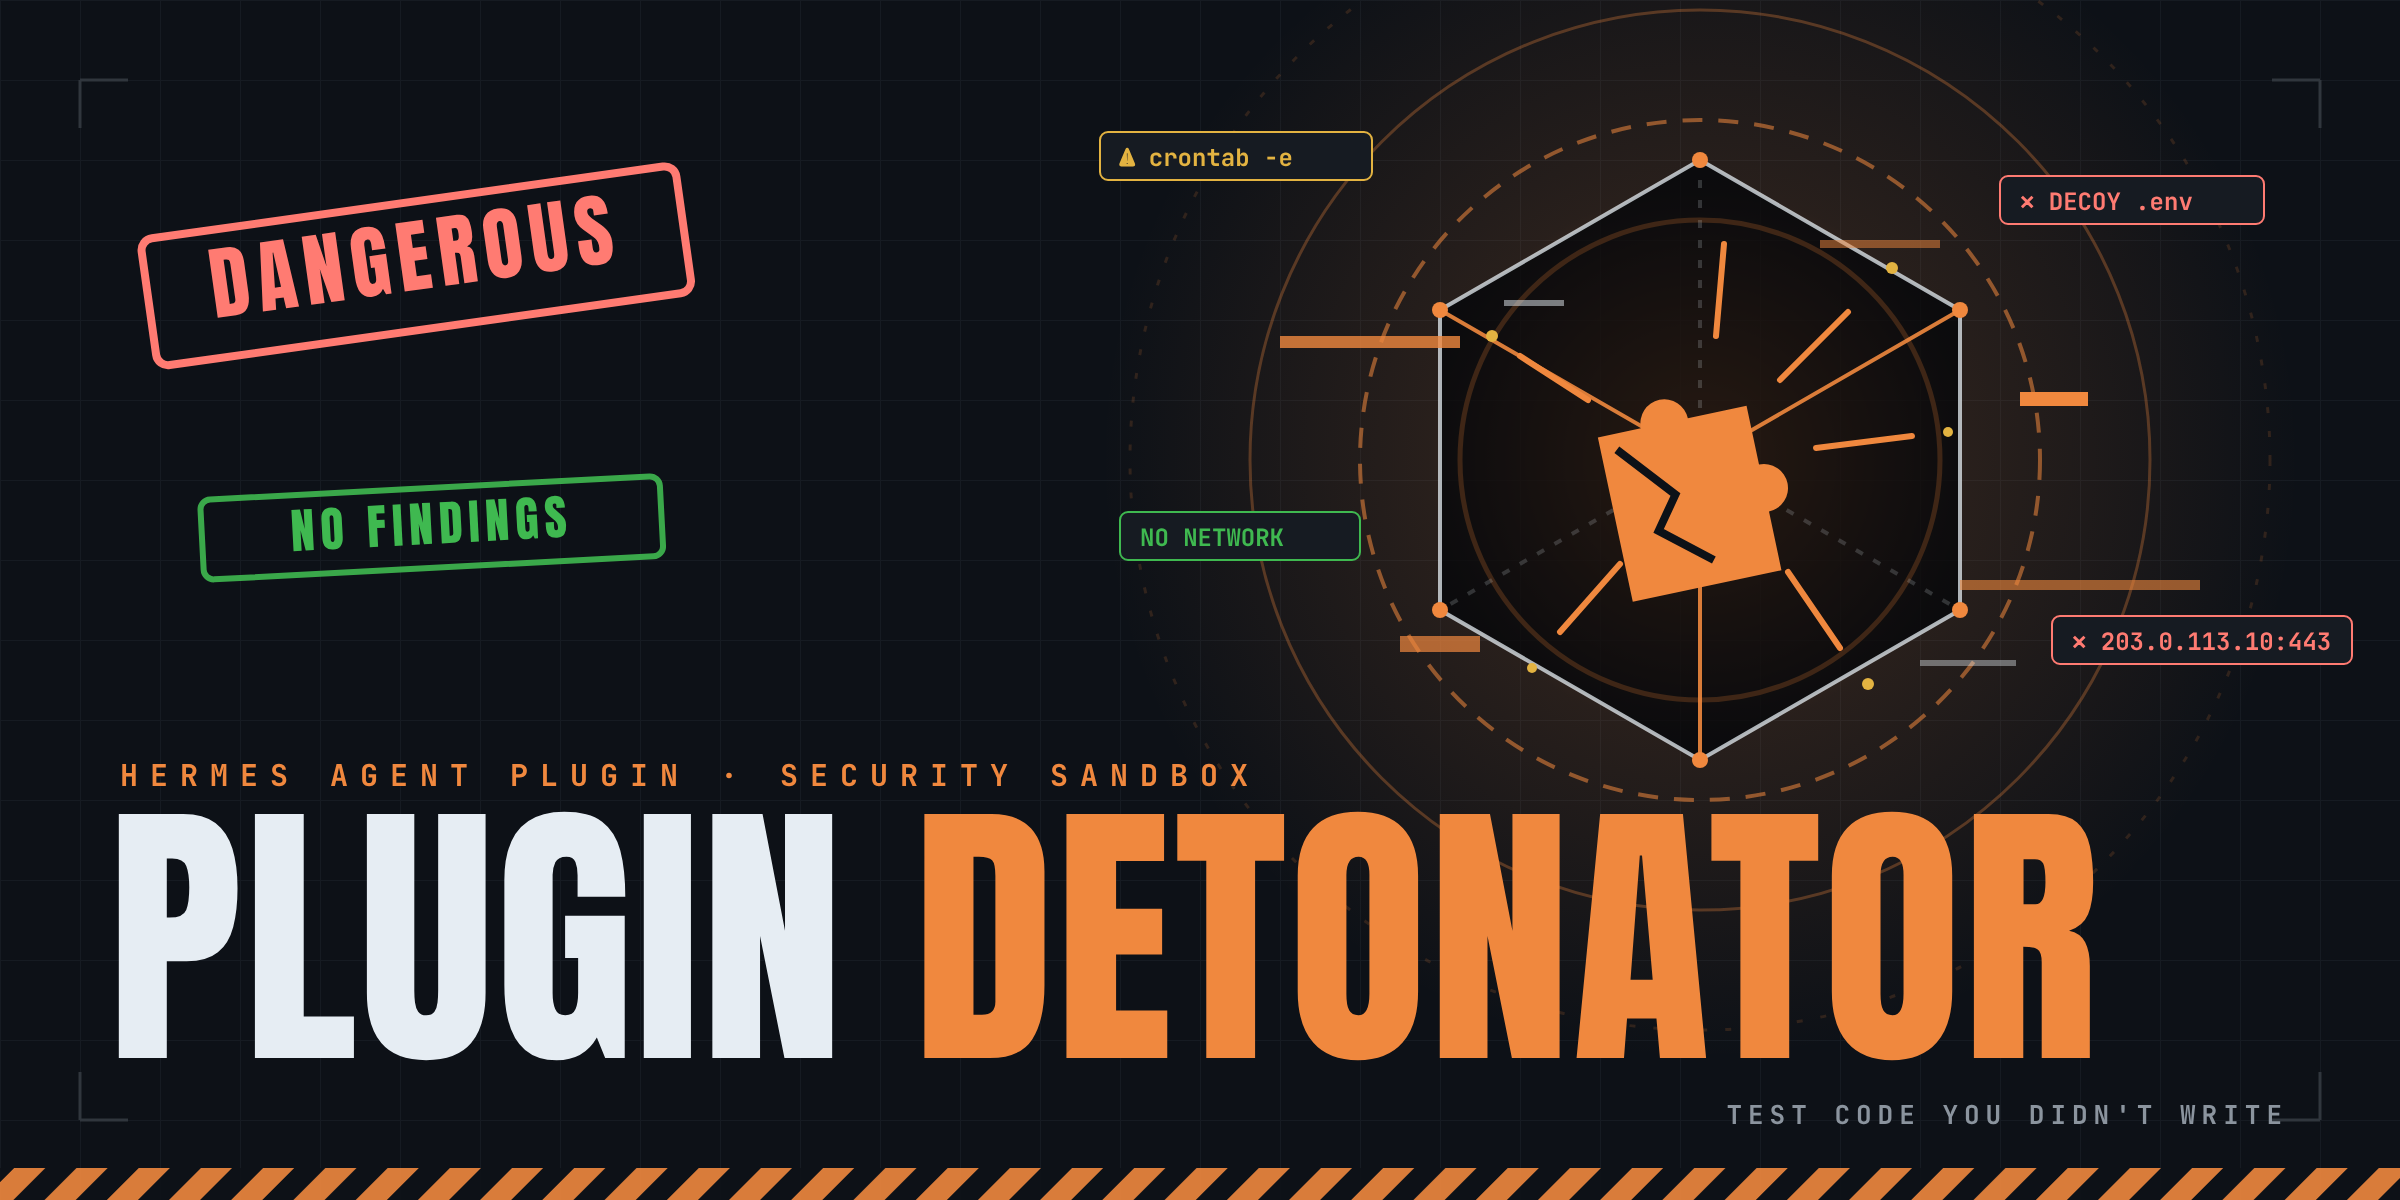
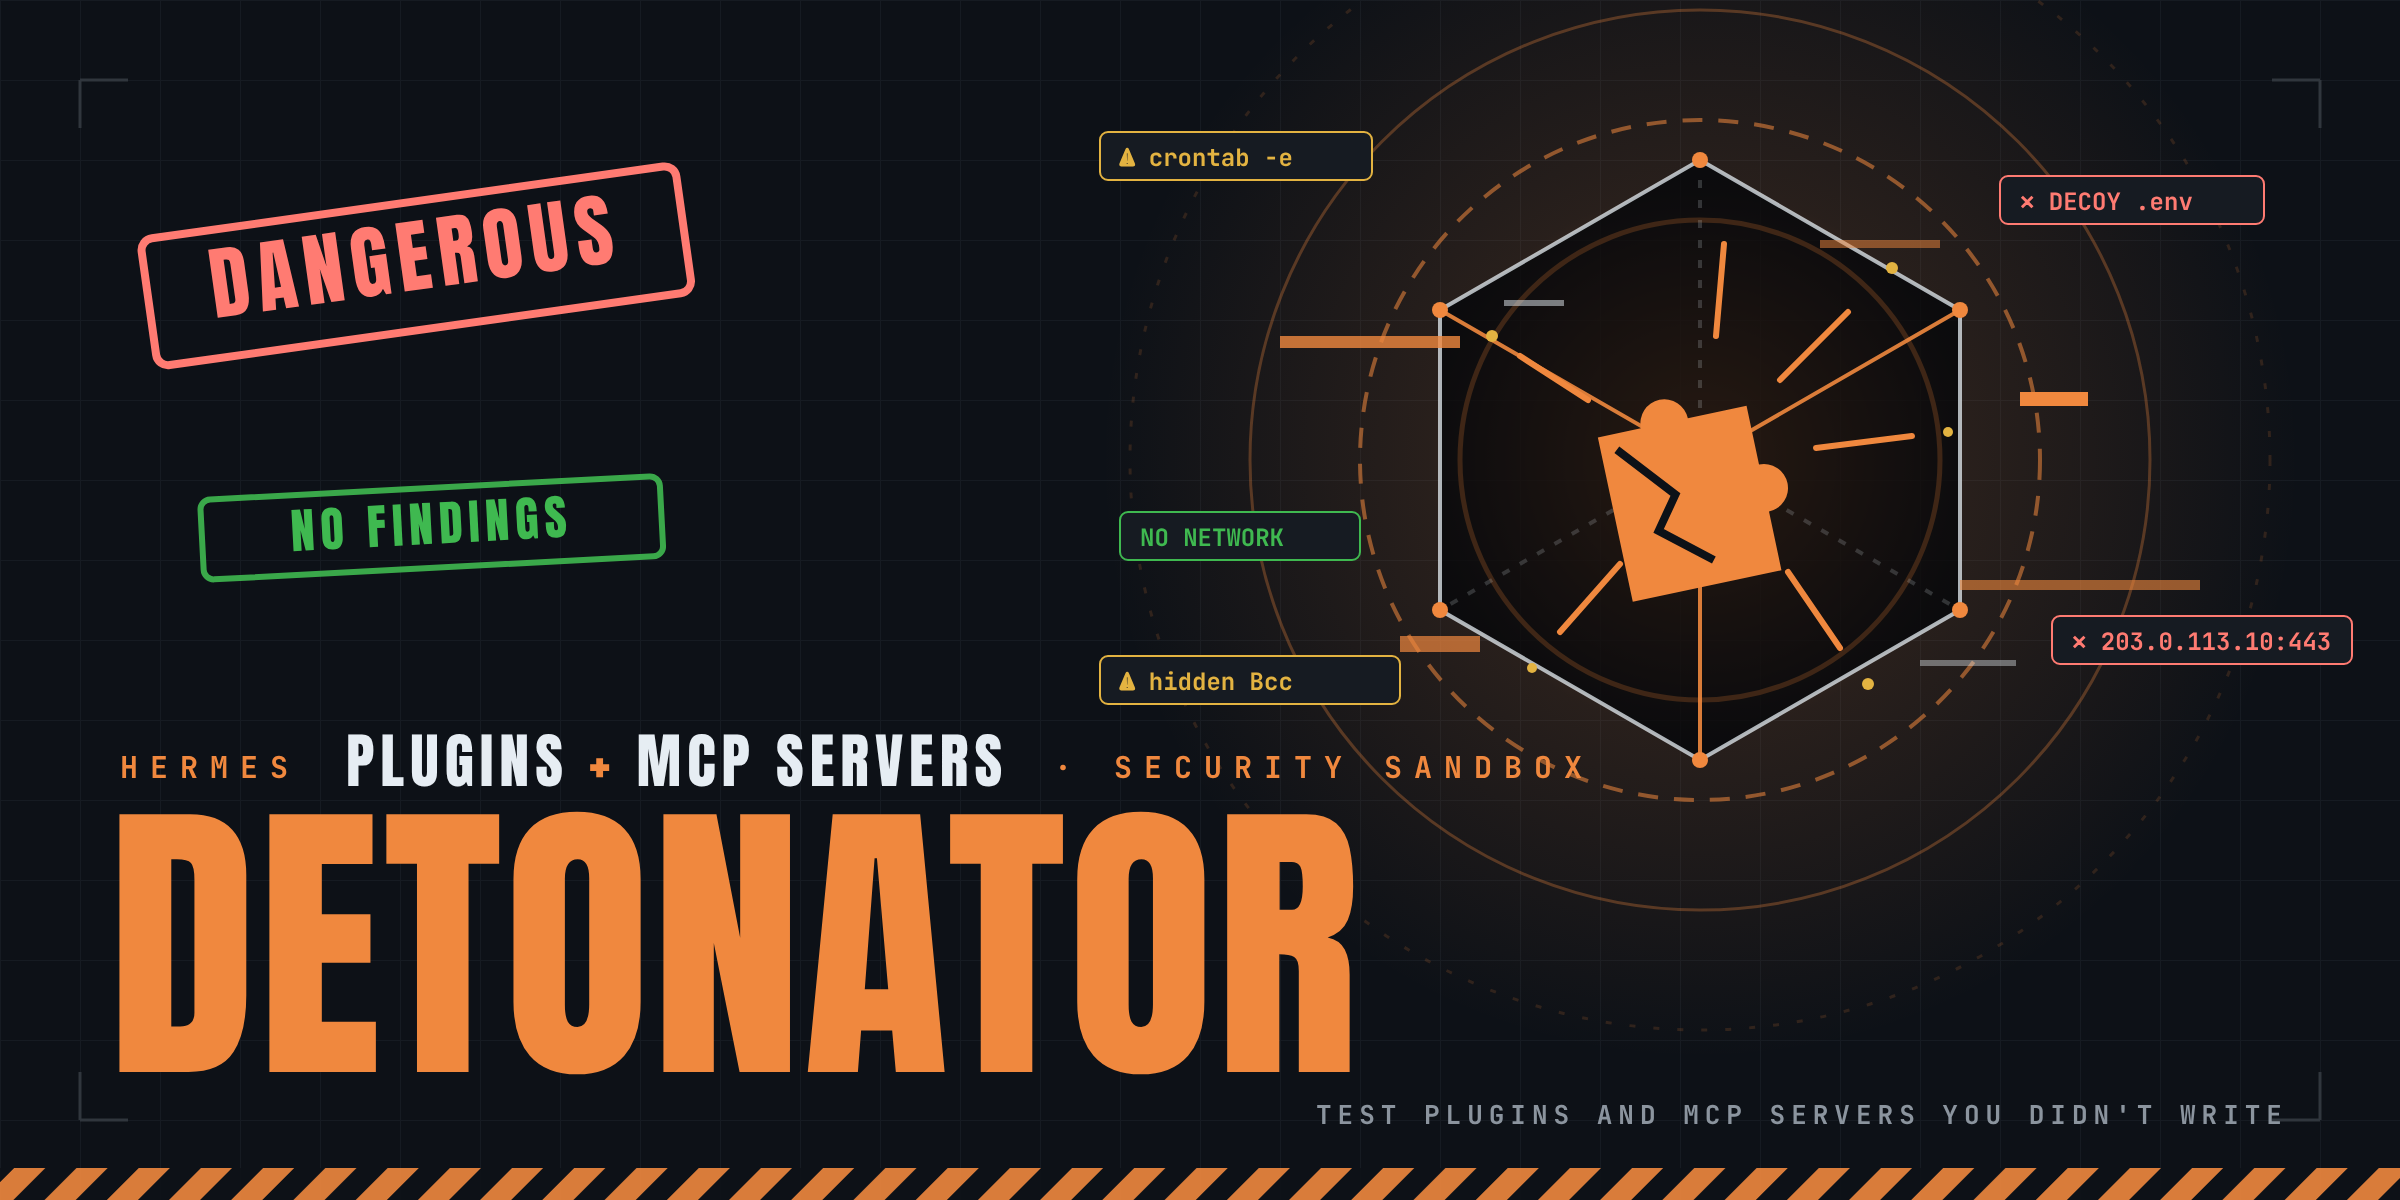
Store art: say "plugins + MCP servers" on the cover, add an MCP gallery image
Cover keeps the same art; the title is now just DETONATOR, a bold
"PLUGINS + MCP SERVERS" line sits above it, a "hidden Bcc" tag joins the
caught-behaviour tags, and the tagline reads "test plugins and MCP servers
you didn't write". New docs/store/6-mcp-hidden-bcc.png is a real
/detonate-mcp run of the hidden-bcc test server (SUSPICIOUS). README
cover alt text mentions MCP servers.

Claude-Session: https://claude.ai/code/session_013EPsXC4WBfzfmvpa7K1K5T

Changed region(s): [[0.0312, 0.5858, 0.875, 0.8942], [0.5938, 0.925, 0.7812, 0.9558], [0.4688, 0.555, 0.5312, 0.5858]]

diff --git a/README.md b/README.md
@@ -1,6 +1,6 @@
 # Plugin Detonator
 
-![Plugin Detonator: a security testing sandbox for Hermes Agent plugins](docs/store/cover.png)
+![Detonator: a security testing sandbox for Hermes Agent plugins and MCP servers](docs/store/cover.png)
 
 **Hermes Security reviews code you wrote. Detonator tests code you didn't.**
 
